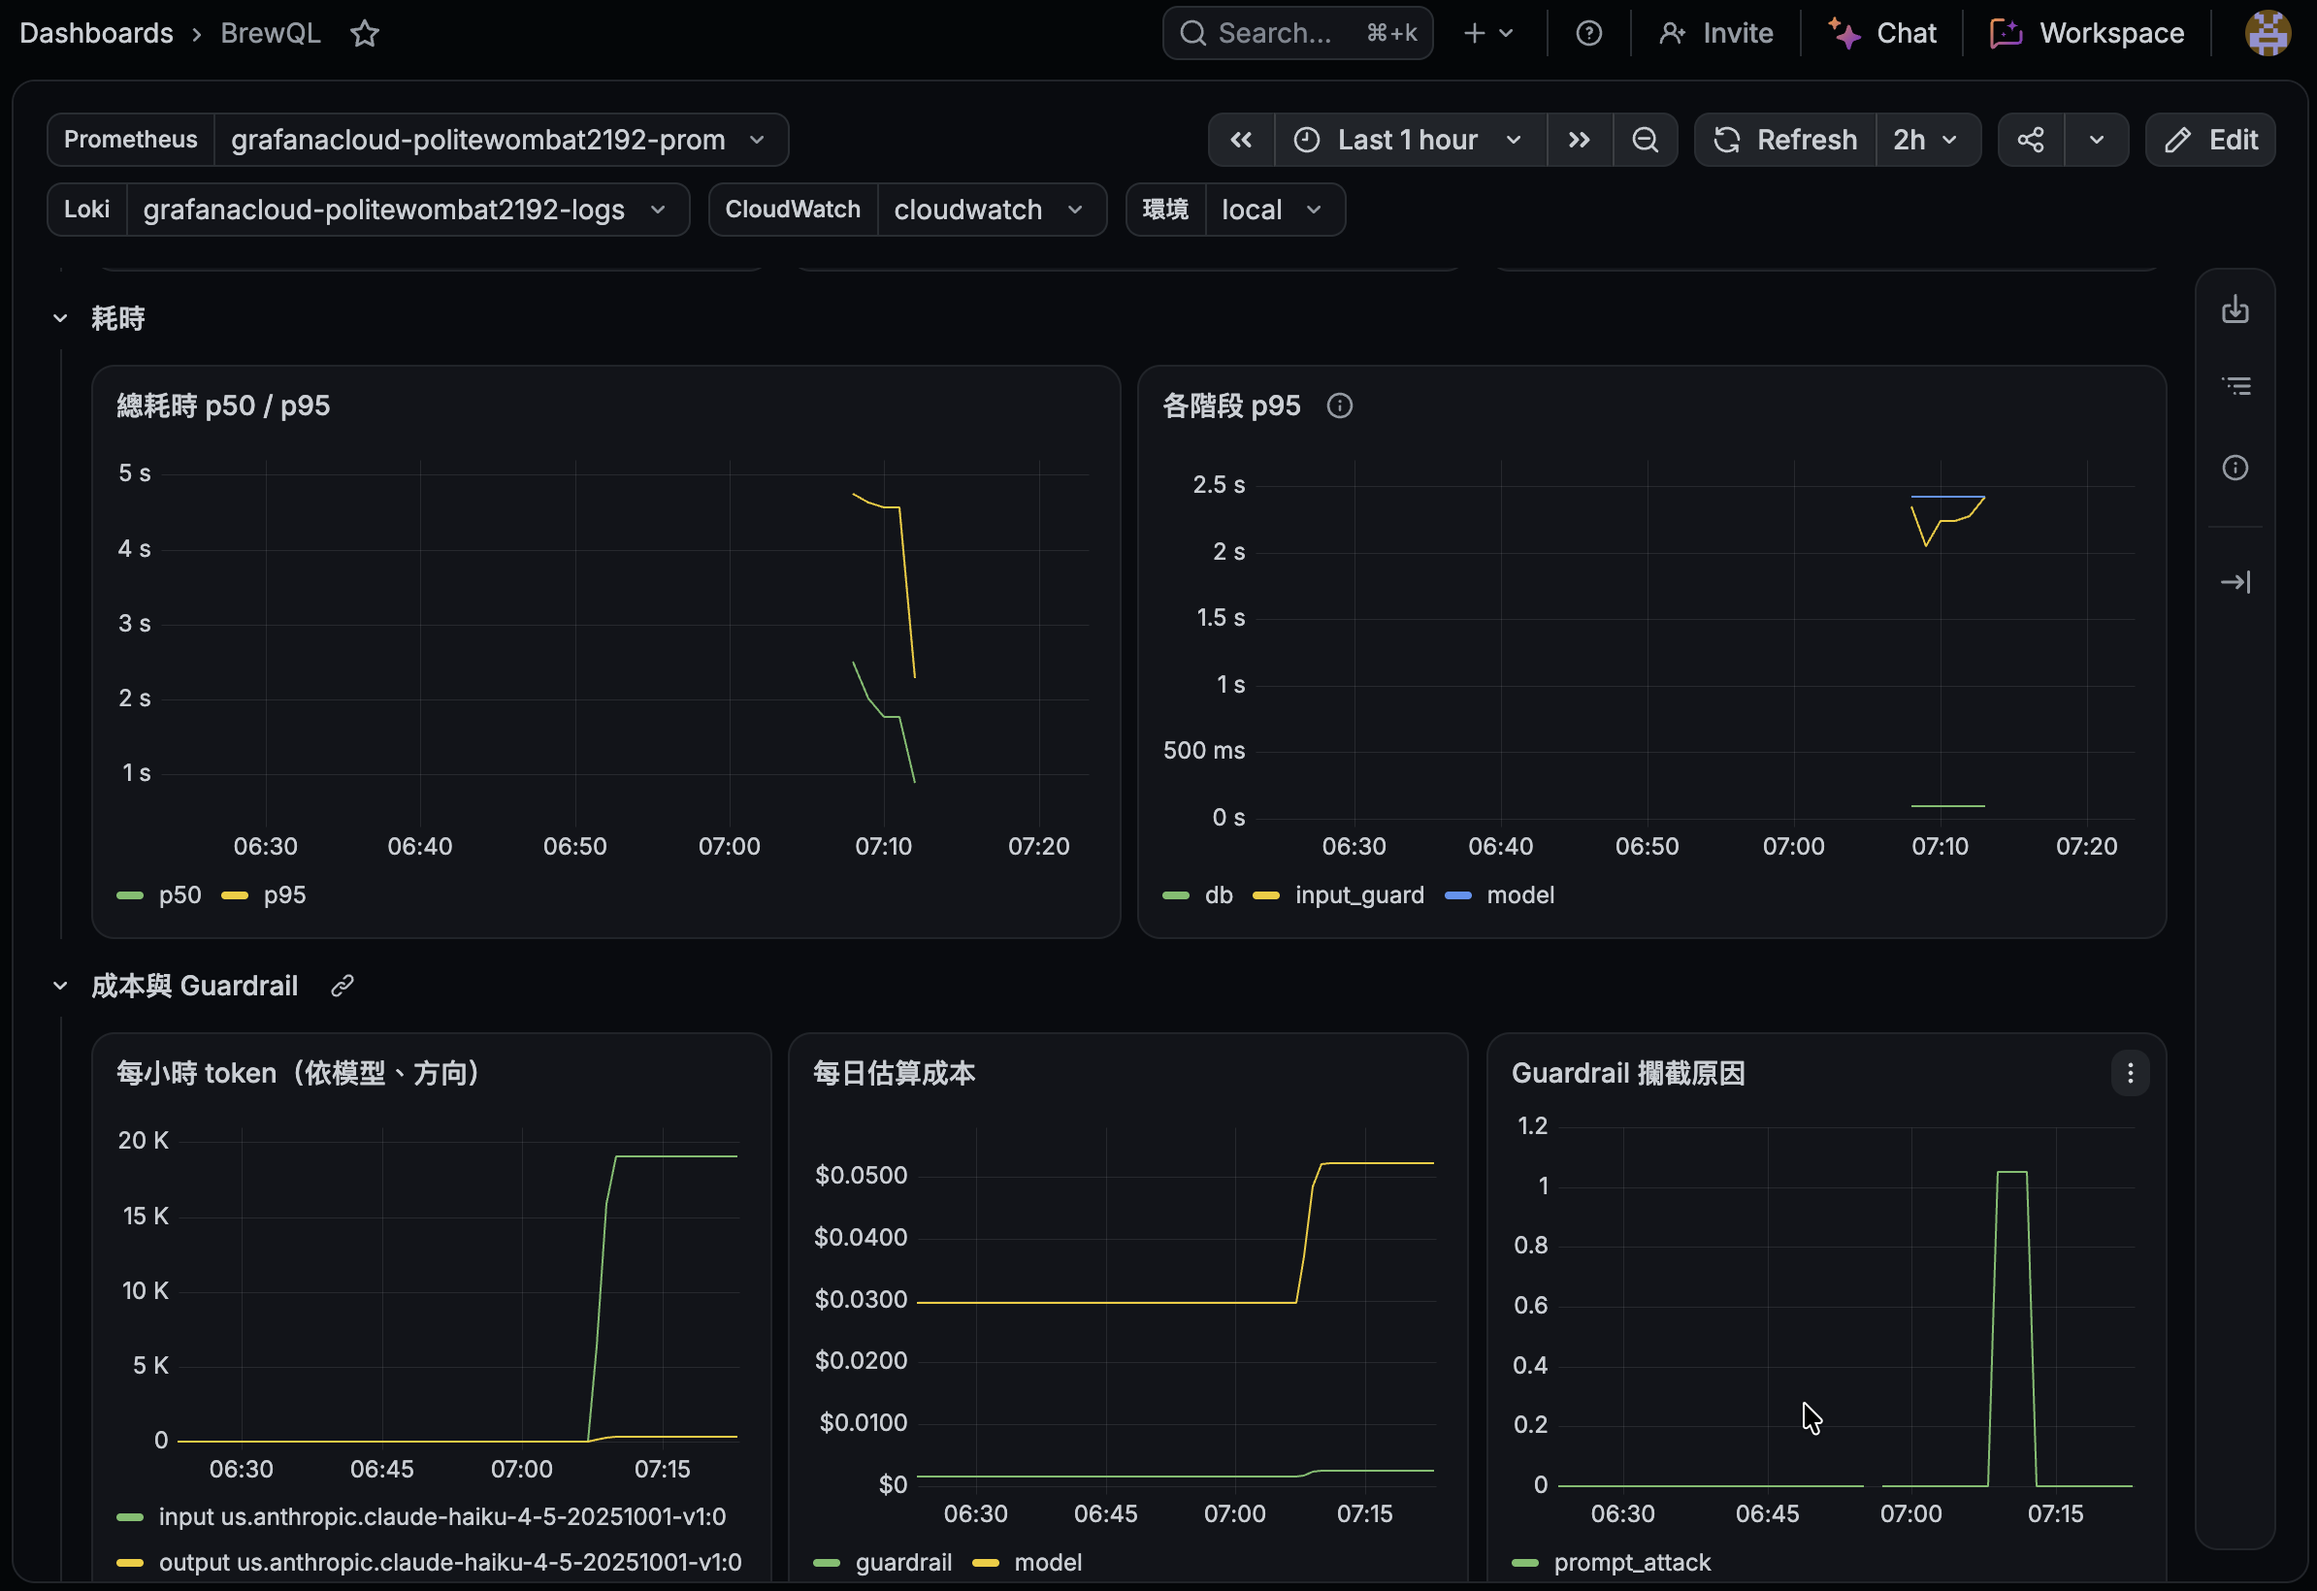
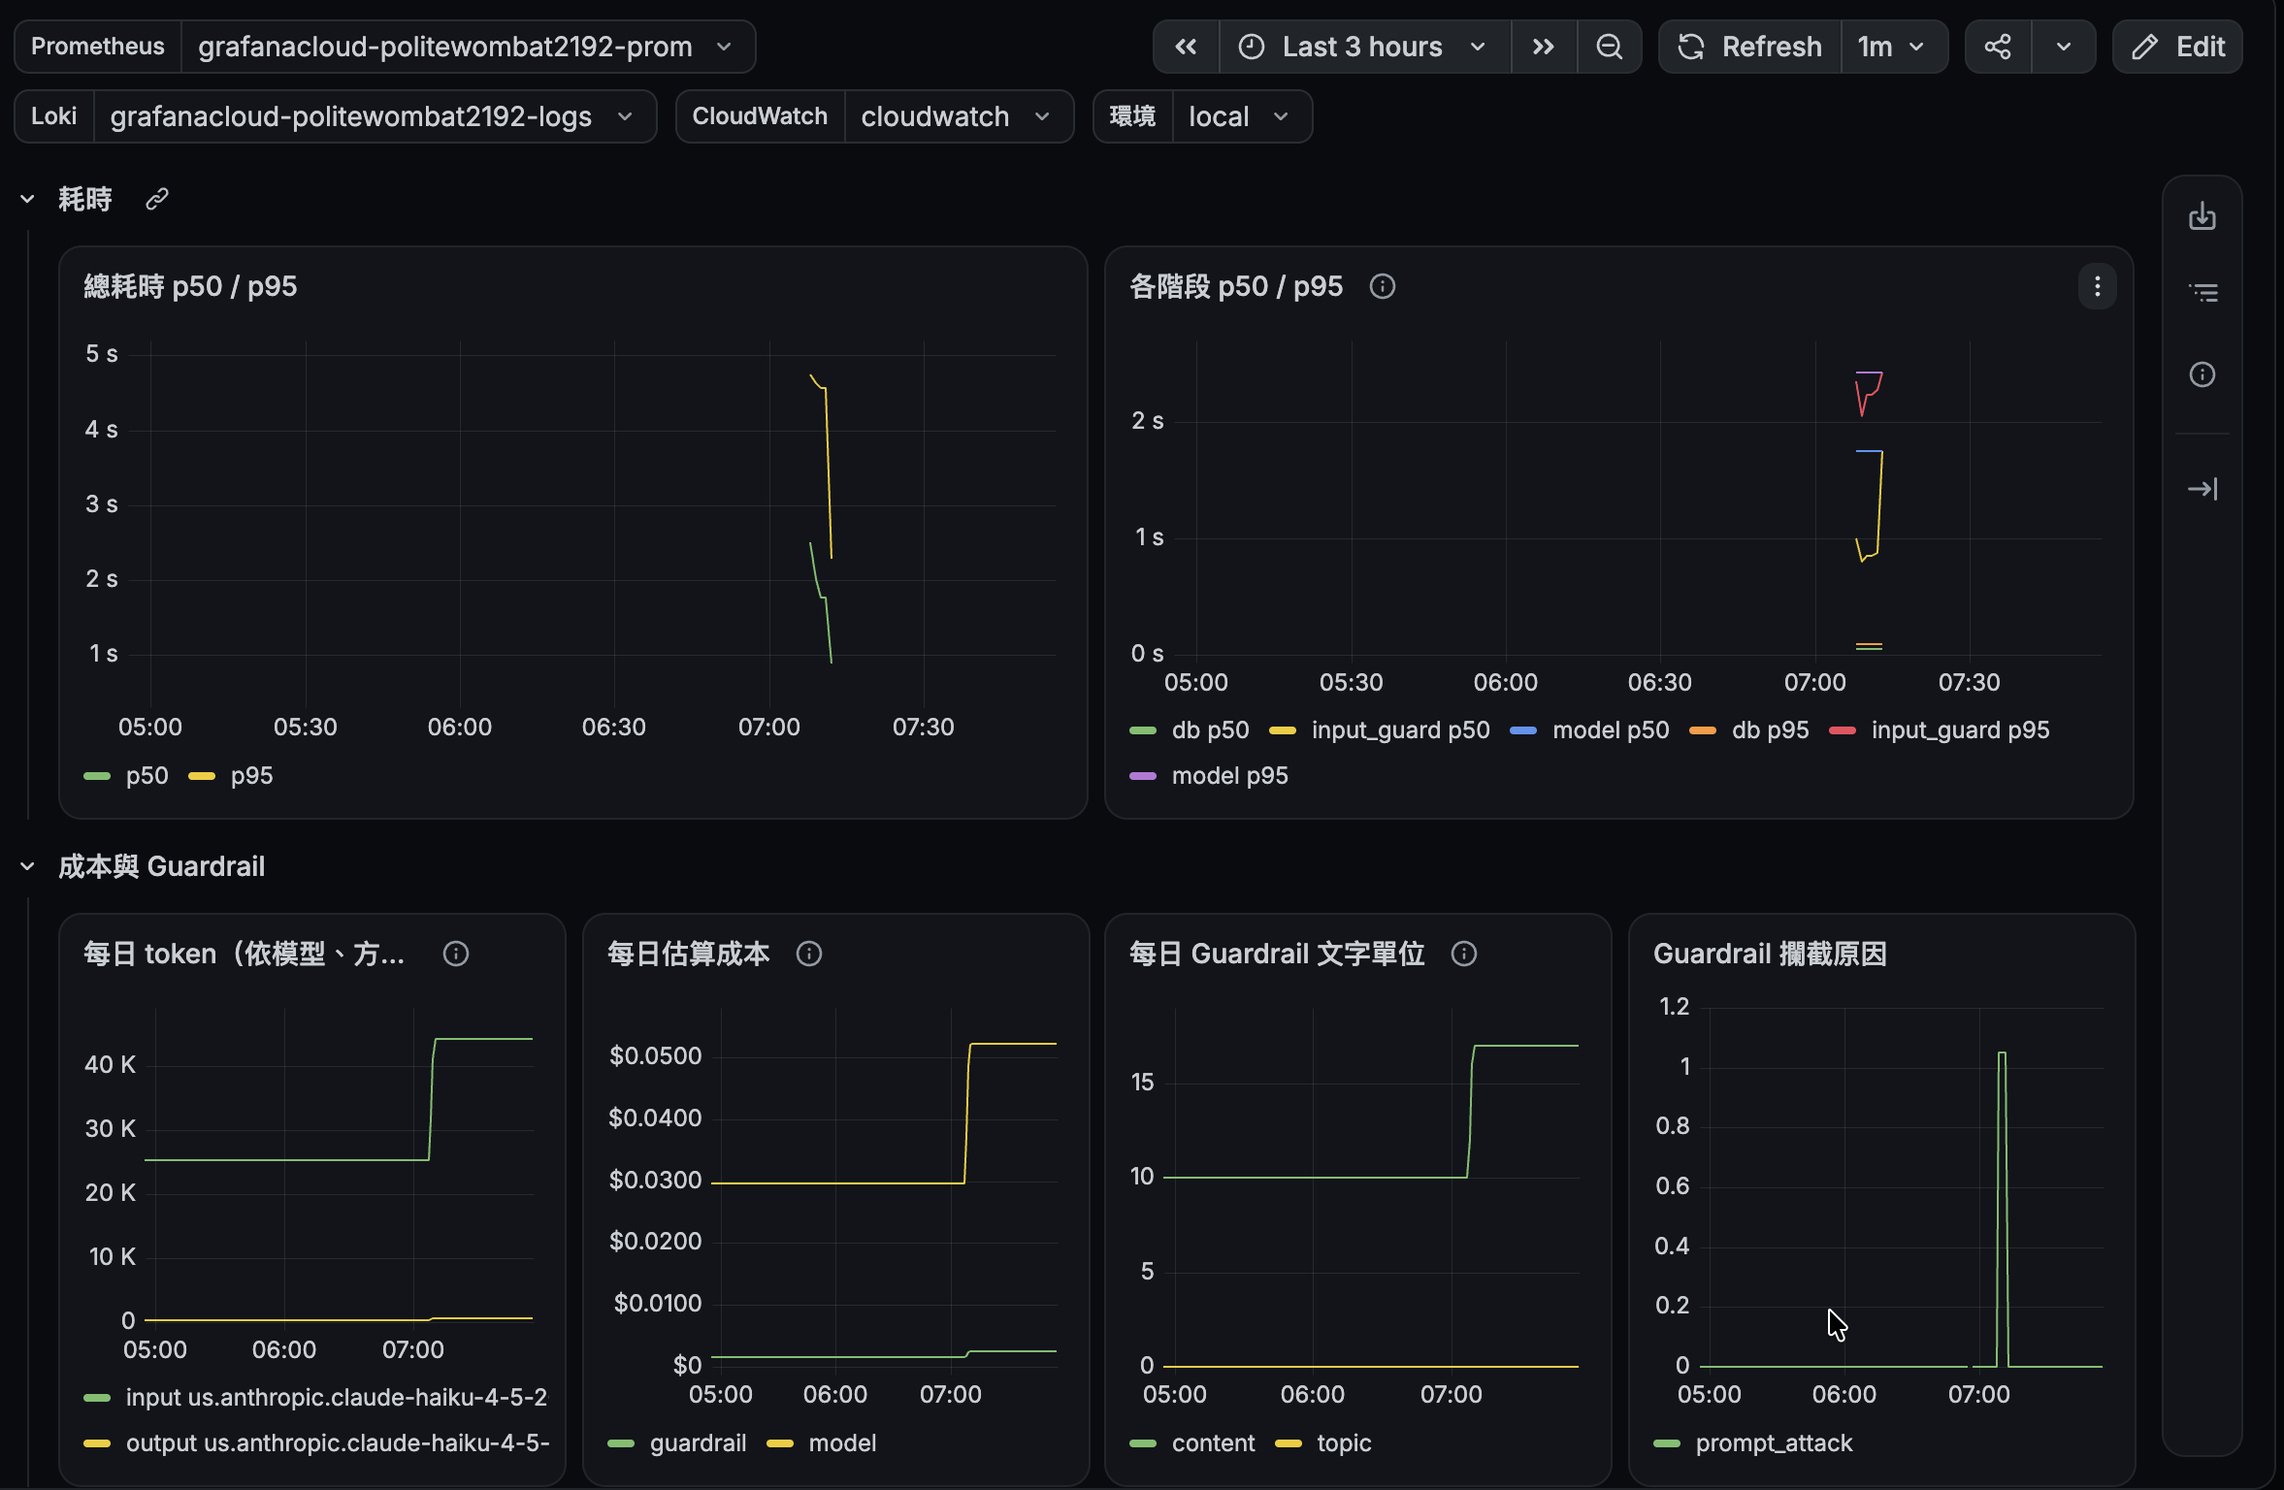
docs: explain what each dashboard panel shows and why

diff --git a/observability/README.md b/observability/README.md
@@ -23,6 +23,8 @@ observability/
 2. 上傳 `observability/dashboards/brewql.json`，資料夾選 `BrewQL`（沒有就先建立）。
 3. 匯入後在頁面上方選擇資料來源（`…-prom`、`…-logs`、CloudWatch）與環境（`local` 或 `demo`）。
 
+在 UI 修改 dashboard 後，用 **Export** → **Export as JSON**（不勾 *Export for sharing externally*）覆蓋 repo 的檔案，再開 PR。
+
 ## 連接 CloudWatch（成本對帳）
 
 Grafana Cloud 以 Assume Role 讀取 `AWS/Bedrock` 指標，不使用 access key。
@@ -36,15 +38,76 @@ Grafana Cloud 以 Assume Role 讀取 `AWS/Bedrock` 指標，不使用 access key
 - 兩邊都來自 Bedrock 回應的 usage，原始數字相同。應用程式的數字由 Prometheus `increase()` 推算，會有小數與少量誤差；CloudWatch 約延遲數分鐘，並包含 eval 與 smoke 腳本的呼叫。
 - backend 重啟後若在 Alloy 下一次抓取（15 秒）前就答題，且新的計數已超過重啟前的值，Prometheus 看不出計數器重置，該題 token 會少算。要精確比較時，用 Grafana Explore 查 CloudWatch `Sum`（period 300）與 backend `/metrics` 的原始計數。
 
-## 畫面
+## Dashboard 導覽
 
-| | |
-|---|---|
-| ![總覽與結果分布](../docs/images/grafana-overview.png) | ![耗時、成本與 Guardrail](../docs/images/grafana-latency-cost.png) |
-| ![成本對帳](../docs/images/grafana-reconciliation.png) | ![主機與容器資源](../docs/images/grafana-resources.png) |
-| ![Backend 警告與錯誤 log](../docs/images/grafana-logs.png) | |
+每一列回答一個營運問題。數字都帶 `project="brewql"` 與所選 `env`；除非標明，時間範圍跟著頁面右上角。
 
-在 UI 修改 dashboard 後，用 **Export** → **Export as JSON**（不勾 *Export for sharing externally*）覆蓋 repo 的檔案，再開 PR。
+### 總覽：服務現在健康嗎？
+
+![總覽與結果分布](../docs/images/grafana-overview.png)
+
+| 面板 | 意涵 | 為什麼需要 |
+|---|---|---|
+| 提問數 | 所選範圍內 `/api/ask` 的題數（含拒答、反問、錯誤；不含被 nginx 或每日上限擋下的請求）。由 `increase()` 推算，可能出現小數 | 判斷流量規模，其他比例都以它為分母 |
+| 成功率 | 回答成功（`status="ok"`）÷ 提問數。拒答與反問也算在分母，所以不是「錯誤率」的反面 | 一眼看出使用者有多少問題真的拿到答案；突然下降代表模型、Guardrail 或資料庫出問題 |
+| p95 總耗時 | 95% 的題目在這個秒數內回答完 | 使用者感受的是慢的那一端；平均值會被快的題目掩蓋 |
+| 估算成本 | 依 `backend/app/pricing.py` 單價算出的模型＋Guardrail 美元數 | 公開 Demo 按用量計費，要能隨時知道花了多少 |
+| 成本不完整的題數 | 模型不在單價表，或 Guardrail 沒回報用量的題數 | 大於 0 代表估算成本偏低，該更新單價表，而不是誤以為很便宜 |
+| 今日額度 | 今天已用題數 ÷ 每日上限，台北時間午夜歸零 | 接近 100% 時後面的使用者會收到 429；額度是防止帳單失控的最後一道閘門 |
+
+### 結果分布：問題被怎麼處理？
+
+| 面板 | 意涵 | 為什麼需要 |
+|---|---|---|
+| 每分鐘提問（依結果） | `ok`、`clarify`、`refused`、`error` 各自的每分鐘題數 | 看出流量高峰，以及哪一種結果在變多 |
+| 拒答來源 | 被輸入防護（`input_guardrail`）或模型判斷（`model`）拒答的題數 | 輸入防護突增可能是有人在試 prompt attack；模型拒答突增可能是 prompt 或資料表說明需要調整 |
+| 錯誤種類 | `unavailable_*` 是相依服務無法使用（5xx）；`generation`、`guardrail`、`query` 是答題過程失敗（重試後仍產生不出可執行的 SQL） | 5xx 要查基礎設施，答題失敗要查 prompt 與 SQL 防護，處理方向完全不同 |
+
+### 耗時與成本：慢在哪、錢花在哪？
+
+![耗時、成本與 Guardrail](../docs/images/grafana-latency-cost.png)
+
+| 面板 | 意涵 | 為什麼需要 |
+|---|---|---|
+| 總耗時 p50 / p95 | 一般題目（p50）與慢的題目（p95）的回答時間 | p50 正常但 p95 很高，代表少數題目卡住（例如重試或慢查詢） |
+| 各階段 p50 / p95 | 輸入防護（`input_guard`）、模型（`model`）、資料庫（`db`）各花多久；重試時每次呼叫各算一次 | 總耗時變慢時，直接看出是哪一段，不用翻 log |
+| 每日 token（依模型、方向） | 過去 24 小時的 input／output token 滾動總數 | 成本主要來自 input token（資料表說明很長）；這是評估 prompt caching 或 RAG 縮短 prompt 的基準 |
+| 每日估算成本 | 過去 24 小時的模型與 Guardrail 成本 | 分開兩個成本來源，知道該優化哪一邊 |
+| 每日 Guardrail 文字單位 | topic 與 content 兩種 policy 各自計費的單位數（1 單位最多 1,000 字元） | Guardrail 按單位計費，長問題會用掉多個單位 |
+| Guardrail 攔截原因 | 被擋下的原因，例如 `prompt_attack` | 知道使用者在嘗試什麼，判斷防護設定是否過嚴或過鬆 |
+
+### 公開流量與成本對帳
+
+![成本對帳](../docs/images/grafana-reconciliation.png)
+
+| 面板 | 意涵 | 為什麼需要 |
+|---|---|---|
+| 429 與 404（每 5 分鐘） | nginx 限流擋下的請求（429），以及打白名單外路徑的請求（404） | 429 暴增代表有人大量呼叫；404 多代表有人在掃描 `/metrics`、`/docs` 等內部端點 |
+| 被限流最多的來源 IP | 所選範圍內被 429 最多次的 IP | 找出濫用來源，決定要不要在安全群組層封鎖 |
+| token 總數：應用程式 vs CloudWatch | 應用程式記錄的 token 和 AWS 端記錄的並排比較 | 應用程式的成本是自己估的；和 AWS 對帳才能證明沒有漏記呼叫（例如繞過指標的程式路徑） |
+| CloudWatch 呼叫次數 | AWS 端記錄的 Bedrock 呼叫次數 | 每題大約 1 次模型呼叫（重試時 2 次），可以和提問數互相驗證 |
+
+### 主機與容器資源：機器撐得住嗎？
+
+![主機與容器資源](../docs/images/grafana-resources.png)
+
+![主機磁碟 I/O、網路與 backend log](../docs/images/grafana-host-io.png)
+
+| 面板 | 意涵 | 為什麼需要 |
+|---|---|---|
+| 主機 CPU、記憶體使用率 | 整台主機的使用比例 | Demo 跑在小台 EC2；記憶體超過 90% 會觸發告警，避免 OOM 讓整個服務停掉 |
+| 主機檔案系統使用率 | 每個掛載點已用的比例 | 磁碟滿了 Postgres 和 Docker 都會壞；超過 85% 觸發告警 |
+| 主機負載 | 1、5、15 分鐘平均的等待執行 process 數 | 和 CPU 核數比較，判斷是短暫尖峰還是持續過載 |
+| 容器 CPU、記憶體 | `db`、`backend`、`frontend`、`alloy` 各自的用量 | 主機吃緊時找出是哪個容器；也看得出監控本身（`alloy`）佔了多少 |
+| 主機磁碟 I/O、網路 | 每秒讀寫與收發的位元組數 | 磁碟 I/O 高可能是慢查詢；網路突增可能是流量攻擊。不收各容器的網路：需要讓 Alloy 開 `pid: host`，權限過大 |
+
+本機 Docker Desktop 上的「主機」是 Docker 的 Linux VM，不是 Mac；主機數字要到部署的 EC2 才有意義。
+
+### Backend 警告與錯誤 log
+
+![Backend 警告與錯誤 log](../docs/images/grafana-logs.png)
+
+backend 等級為 WARNING 或 ERROR 的 JSON log，最新的在上面。指標告訴你「出事了」，log 告訴你「為什麼」：例如每日上限觸發、Guardrail 或 Bedrock 呼叫失敗的完整錯誤。log 不含問題原文。
 
 ## 匯入告警規則
 

diff --git a/README.md b/README.md
@@ -95,7 +95,7 @@ curl -s -X POST localhost:8000/api/ask -H 'content-type: application/json' \
 
 ## 監控
 
-backend 輸出 JSON log 與 Prometheus 指標（`/metrics` 只在 compose 網路內，nginx 對外回 404），由 Grafana Alloy 連同 nginx access log、主機與容器資源推送到 Grafana Cloud。Dashboard 與告警規則以程式碼存在 `observability/`，設定步驟見 [observability/README.md](observability/README.md)。
+backend 輸出 JSON log 與 Prometheus 指標（`/metrics` 只在 compose 網路內，nginx 對外回 404），由 Grafana Alloy 連同 nginx access log、主機與容器資源推送到 Grafana Cloud。Dashboard 與告警規則以程式碼存在 `observability/`，設定步驟與每個面板的意涵見 [observability/README.md](observability/README.md#dashboard-導覽)。
 
 ![提問數、成功率、耗時、成本與結果分布](docs/images/grafana-overview.png)
 
